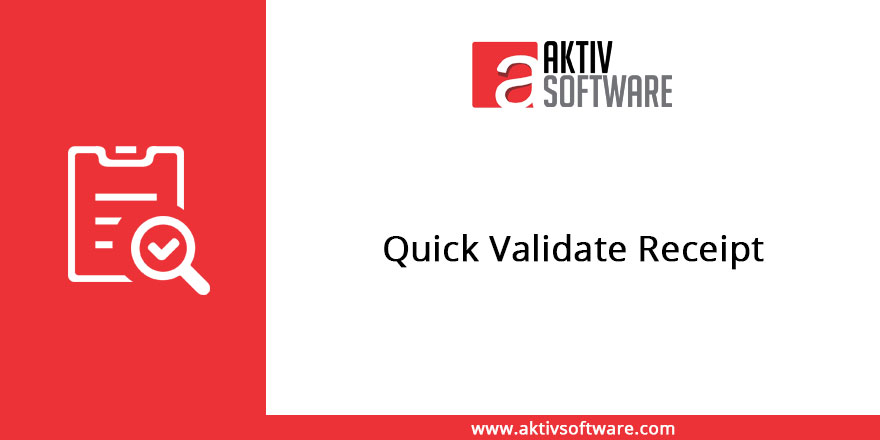
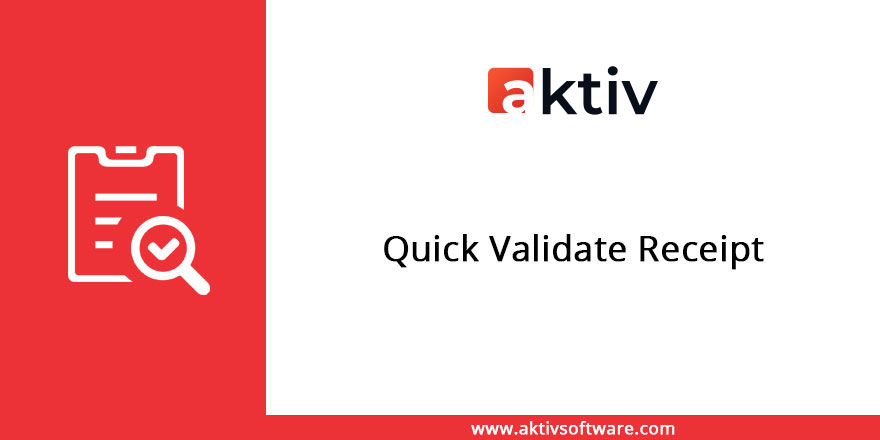
[ADD] change image in 9.0

Changed region(s): [[0.5216, 0.0886, 0.767, 0.2659]]

diff --git a/quick_validate_receipt/static/description/index.html b/quick_validate_receipt/static/description/index.html
@@ -48,7 +48,7 @@
     <div class="oe_row oe_spaced">
         <h2 class="oe_slogan">
             <a href="http://aktivsoftware.com/" target="new">
-                <img src="http://aktivsoftware.com/wp-content/uploads/2018/01/logo-1.png"/>
+                <img src="aktiv-logo.png"/>
             </a>
             <br/>
             <a href="mailto:sales@aktivsoftware.com" style="color: #000000 !important;">
